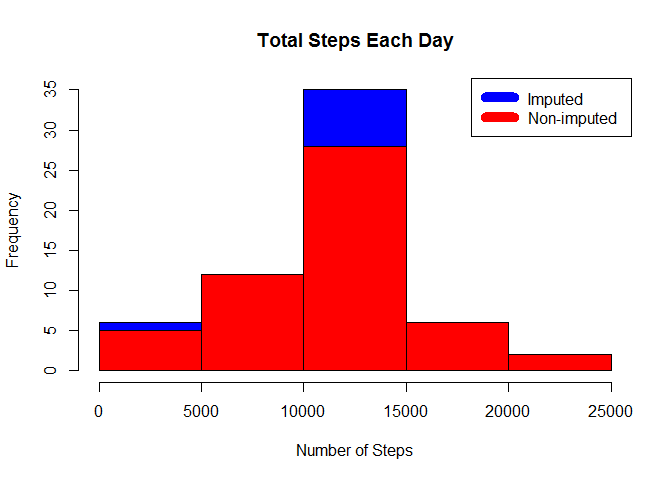
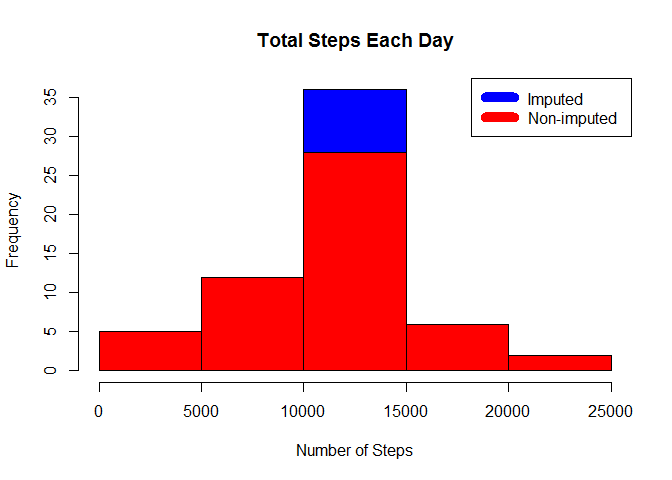
Reporducible Data Research - Commit 3

diff --git a/PA1_template.html b/PA1_template.html
@@ -222,9 +222,9 @@ hr {
       medianDay&lt;-median(dtResultbyDay$Total)
 </code></pre>
 
-<p>Mean of the total number of steps taken per day: 10766.1887 </p>
+<p><strong>Mean of the total number of steps taken per day: 10766.1887</strong> </p>
 
-<p>Median of the total number of steps taken per day: 10765 </p>
+<p><strong>Median of the total number of steps taken per day: 10765</strong></p>
 
 <pre><code class="r">      dtActivity&lt;-subset(Activity[,c(&quot;steps&quot;,&quot;interval&quot;)], is.na(Activity$steps)==F)
       dtResultbyInterval&lt;-aggregate(dtActivity[,1] , by=list(dtActivity[,2]),mean) 
@@ -237,12 +237,14 @@ hr {
 <pre><code class="r">      max_interval &lt;- dtResultbyInterval[which.max(dtResultbyInterval$steps),1]
 </code></pre>
 
-<p>On average across all the days in the dataset, the 835th contains the maximum number of steps</p>
+<p><strong>On average across all the days in the dataset, the 835th Interval contains the maximum number of steps</strong></p>
+
+<p><strong>Imputing missing values: The calculated mean per interval was used to impute missing values.</strong></p>
 
 <pre><code class="r">      dtActivity&lt;-subset(Activity[,c(&quot;steps&quot;,&quot;interval&quot;)], is.na(Activity$steps)==F)
       incomplete &lt;- sum(!complete.cases(Activity))
       dtImputed &lt;- transform(Activity, steps = ifelse(is.na(Activity$steps), dtResultbyInterval$steps[match(Activity$interval, dtResultbyInterval$interval)], Activity$steps))
-      dtImputed[as.character(dtImputed$date) == &quot;2012-10-01&quot;, 1] &lt;- 0
+
       dtStepsbyDayImputed &lt;- aggregate(steps ~ date, dtImputed, sum)
       hist(dtStepsbyDayImputed$steps, main = paste(&quot;Total Steps Each Day&quot;), col=&quot;blue&quot;, xlab=&quot;Number of Steps&quot;)
       hist(dtResultbyDay$Total, main = paste(&quot;Total Steps Each Day&quot;), col=&quot;red&quot;, xlab=&quot;Number of Steps&quot;, add=T)
@@ -264,17 +266,17 @@ hr {
 
 <p>The median of total number of steps taken per day: 10765 </p>
 
-<p>The mean of total number of steps taken per day (Imputing Estimates): 10589.6938 </p>
+<p>The mean of total number of steps taken per day (Imputing Estimates): 10766.1887 </p>
 
 <p>The median of total number of steps taken per day (Imputing Estimates): 10766.1887 </p>
 
-<p>The mean of the difference between real vs. estimate: 176.4949 </p>
+<p>The mean of the difference between real vs. estimate: 0 </p>
 
 <p>The median of the difference between real vs. estimate: -1.1887 </p>
 
-<p>The total of the difference between real vs. estimate: -75363.3208 </p>
+<p>The total of the difference between real vs. estimate: -86129.5094 </p>
 
-<p>Based on the summary results and the histogram listed above, the estimated median is very close to the median of the original dataset in which the missing values were ignored. However, the mean value differs slighltly.</p>
+<p><strong>Based on the summary results and the histogram listed above, the estimated median is very close to the median of the original dataset in which the missing values were ignored. Since the mean was used to impute missing values the results was very accurate.</strong></p>
 
 <pre><code class="r">      names(dtImputed)&lt;-c(&quot;steps&quot;,&quot;dt&quot;,&quot;intv&quot;)
       weekdays &lt;- c(&quot;Monday&quot;, &quot;Tuesday&quot;, &quot;Wednesday&quot;, &quot;Thursday&quot;, &quot;Friday&quot;)
@@ -285,11 +287,7 @@ hr {
 
[1 lines of base64/hex data omitted]
 
-<p>Generally, activities start and stop earlier during weekdays.</p>
-
-<p>On Weekends, activity is less during the early morning hours but there are more activity during the day on average.  </p>
-
-<p>On weekdays, activity is far less after (8pm) but there is surge of activities after (8pm) on weekends.</p>
+<p><strong>Generally, activities start and stop earlier during weekdays. On Weekends, activity is less during the early morning hours but there are more activity during the day on average. On weekdays, activity is far less after (8pm) but there is surge of activities after (8pm) on weekends.</strong></p>
 
 </body>
 

diff --git a/PA1_template.md b/PA1_template.md
@@ -36,9 +36,9 @@ output:
       medianDay<-median(dtResultbyDay$Total)
 ```
 
-  Mean of the total number of steps taken per day: 10766.1887 
+  **Mean of the total number of steps taken per day: 10766.1887** 
   
-  Median of the total number of steps taken per day: 10765 
+  **Median of the total number of steps taken per day: 10765**
 
 
 ```r
@@ -54,15 +54,17 @@ output:
       max_interval <- dtResultbyInterval[which.max(dtResultbyInterval$steps),1]
 ```
 
-On average across all the days in the dataset, the 835th contains the maximum number of steps
+  **On average across all the days in the dataset, the 835th Interval contains the maximum number of steps**
 
+
+**Imputing missing values: The calculated mean per interval was used to impute missing values.**
 
 
 ```r
       dtActivity<-subset(Activity[,c("steps","interval")], is.na(Activity$steps)==F)
       incomplete <- sum(!complete.cases(Activity))
       dtImputed <- transform(Activity, steps = ifelse(is.na(Activity$steps), dtResultbyInterval$steps[match(Activity$interval, dtResultbyInterval$interval)], Activity$steps))
-      dtImputed[as.character(dtImputed$date) == "2012-10-01", 1] <- 0
+ 
       dtStepsbyDayImputed <- aggregate(steps ~ date, dtImputed, sum)
       hist(dtStepsbyDayImputed$steps, main = paste("Total Steps Each Day"), col="blue", xlab="Number of Steps")
       hist(dtResultbyDay$Total, main = paste("Total Steps Each Day"), col="red", xlab="Number of Steps", add=T)
@@ -79,23 +81,24 @@ On average across all the days in the dataset, the 835th contains the maximum nu
       totalDiff <- sum(dtResultbyDay$Total) - sum(dtStepsbyDayImputed$steps)
 ```
 
-  The total number of missing values in the dataset: 2304 
+
+The total number of missing values in the dataset: 2304 
   
   The mean of total number of steps taken per day: 10766.1887 
   
   The median of total number of steps taken per day: 10765 
   
-  The mean of total number of steps taken per day (Imputing Estimates): 10589.6938 
+  The mean of total number of steps taken per day (Imputing Estimates): 10766.1887 
   
   The median of total number of steps taken per day (Imputing Estimates): 10766.1887 
   
-  The mean of the difference between real vs. estimate: 176.4949 
+  The mean of the difference between real vs. estimate: 0 
   
   The median of the difference between real vs. estimate: -1.1887 
   
-  The total of the difference between real vs. estimate: -75363.3208 
+  The total of the difference between real vs. estimate: -86129.5094 
 
-  Based on the summary results and the histogram listed above, the estimated median is very close to the median of the original dataset in which the missing values were ignored. However, the mean value differs slighltly.
+**Based on the summary results and the histogram listed above, the estimated median is very close to the median of the original dataset in which the missing values were ignored. Since the mean was used to impute missing values the results was very accurate.**
 
 
 
@@ -110,10 +113,6 @@ On average across all the days in the dataset, the 835th contains the maximum nu
 
 ![plot of chunk differences in activity patterns between weekdays and weekends ](figure/differences in activity patterns between weekdays and weekends .png) 
 
-Generally, activities start and stop earlier during weekdays.
-
-On Weekends, activity is less during the early morning hours but there are more activity during the day on average.  
-
-On weekdays, activity is far less after (8pm) but there is surge of activities after (8pm) on weekends.
+**Generally, activities start and stop earlier during weekdays. On Weekends, activity is less during the early morning hours but there are more activity during the day on average. On weekdays, activity is far less after (8pm) but there is surge of activities after (8pm) on weekends.**
 
 
